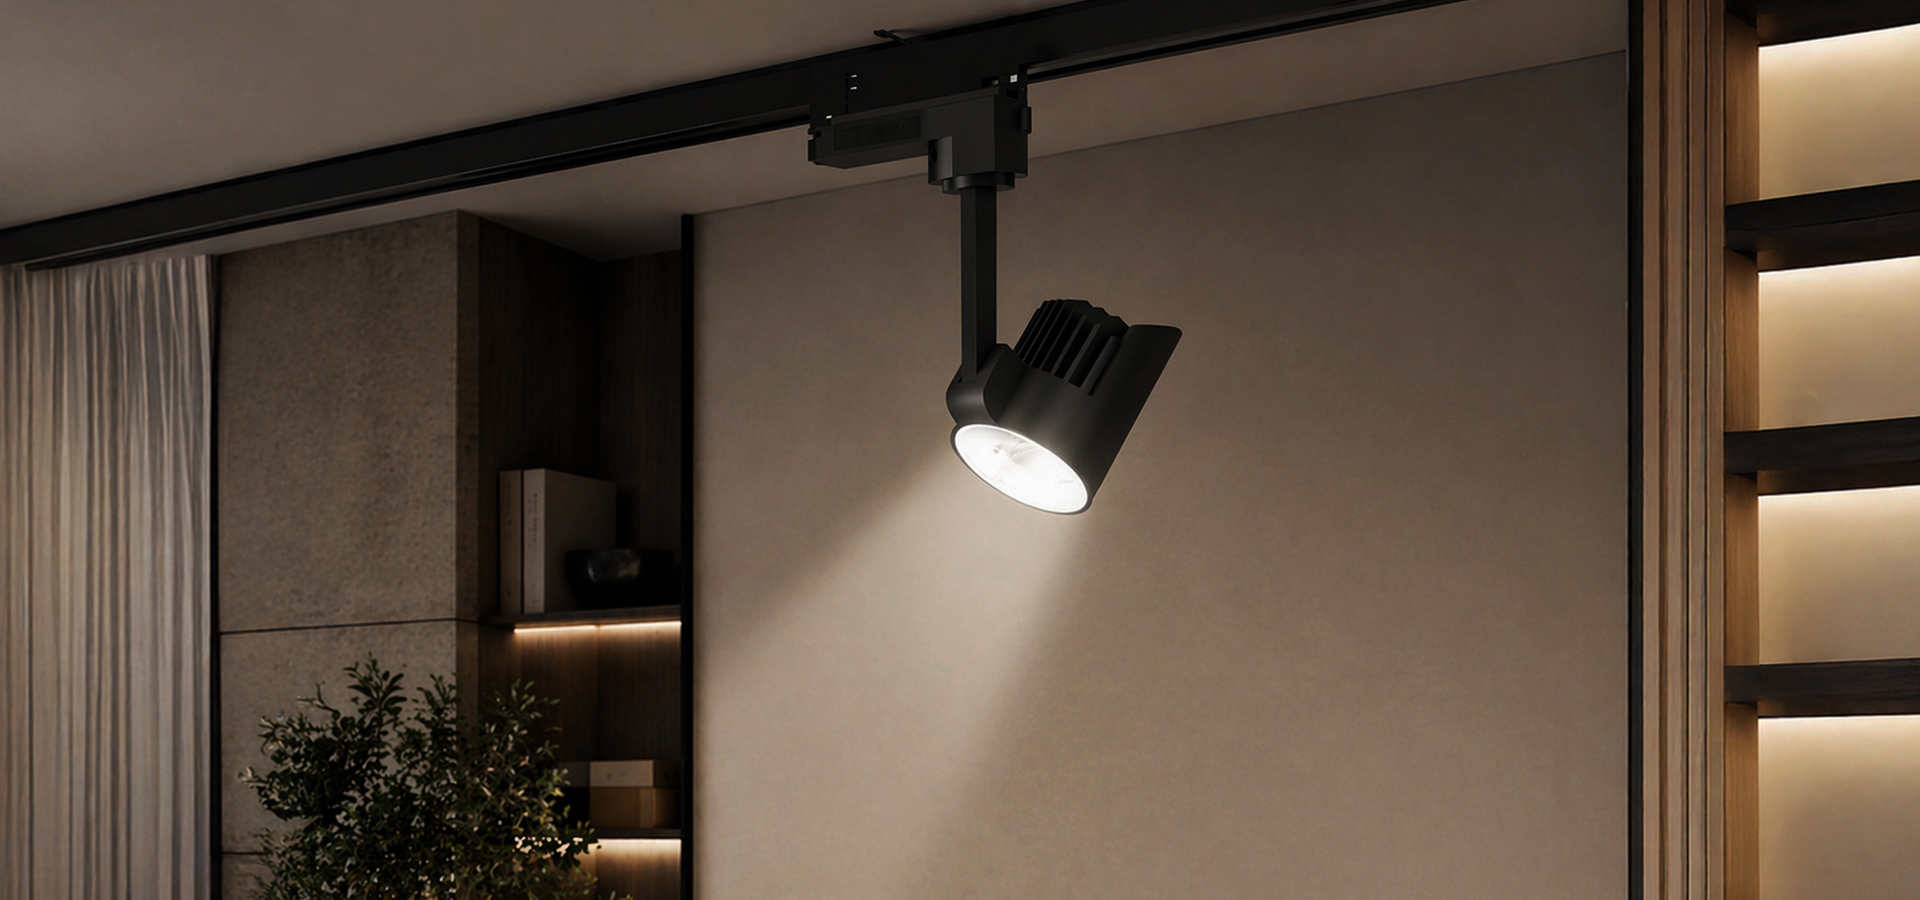
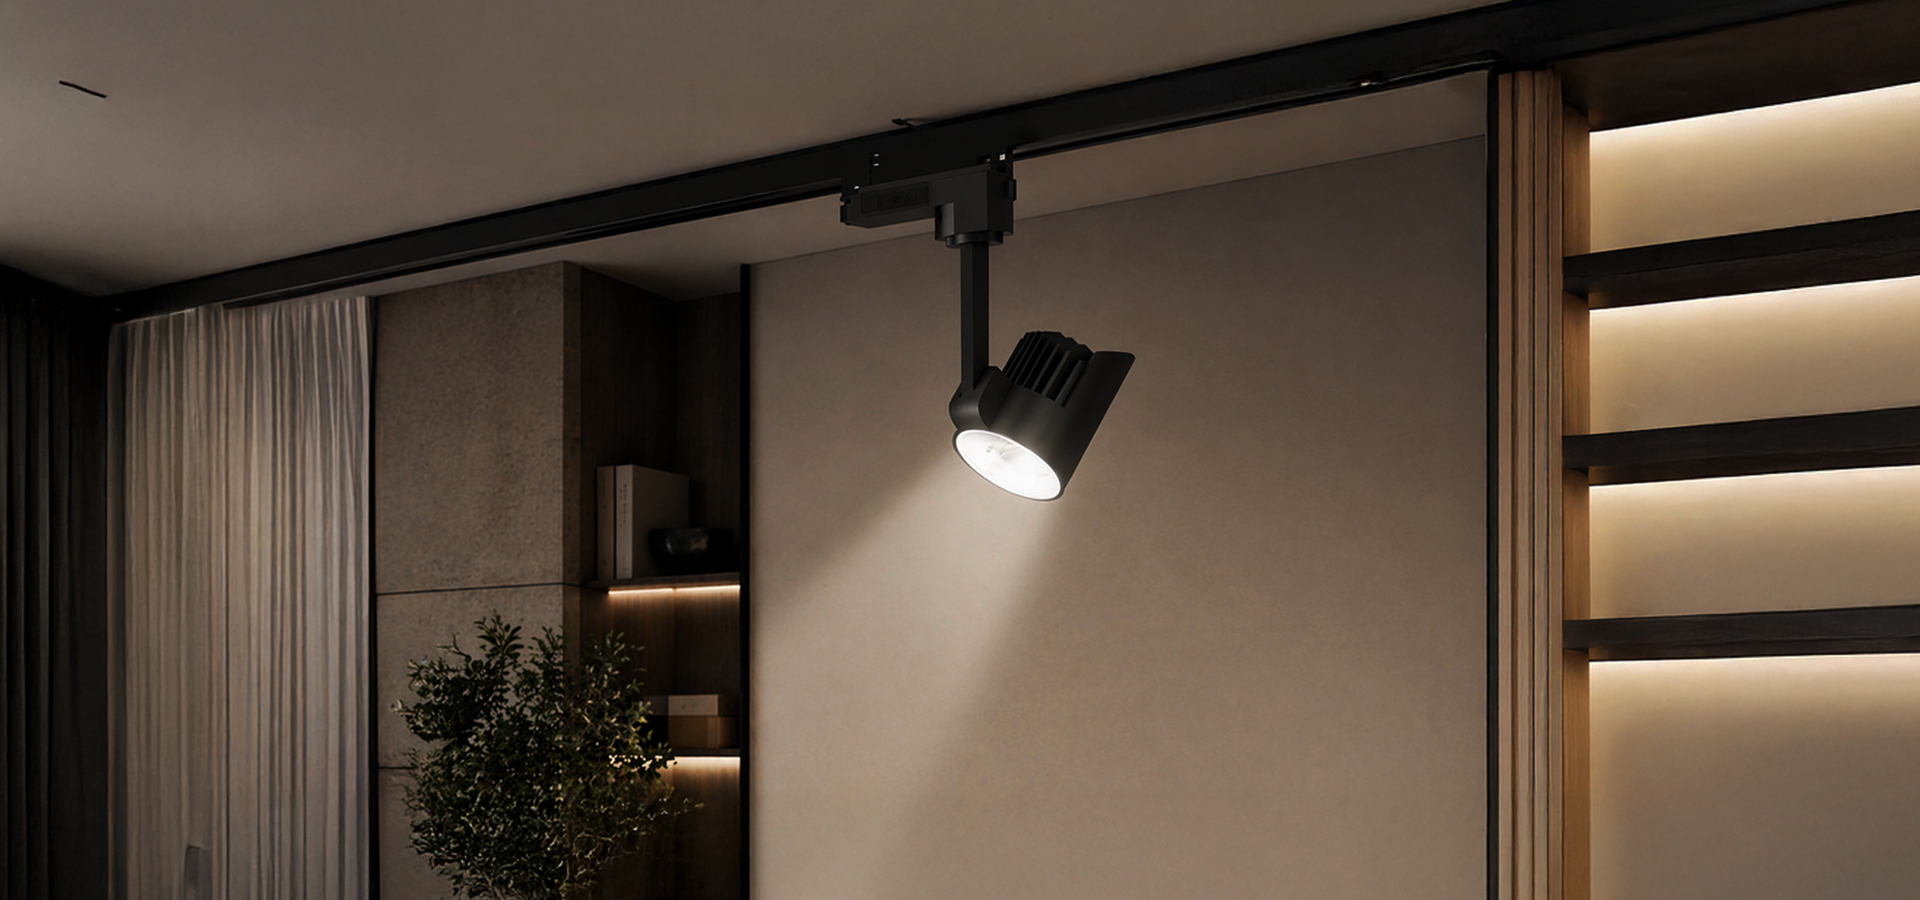
added product category

diff --git a/app/(marketing)/product/[collection]/page.tsx b/app/(marketing)/product/[collection]/page.tsx
@@ -88,27 +88,182 @@ const heroData = COLLECTION_HERO_DATA[collection as keyof typeof COLLECTION_HERO
         heroBannerImage={heroData?.image}
       />
 
-      <div className="">
+      <div className="mx-auto px-6 lg:px-12 pt-12">
 
-        <ProductFilters
+        {/* <ProductFilters
           filters={filters}
           setFilters={setFilters}
           products={products}
           collection={collection}
-        />
+        /> */}
+          <p className="text-white font-bold text-4xl capitalize"><span className="text-logo font-bold text-4xl uppercase">{collection}</span> Collection</p>
 
       </div>
 
       <div className="relative mx-auto px-6 lg:px-12 py-12">
 
-        <ProductGrid
+        {/* <ProductGrid
           filters={filters}
           products={products}
           collection={collection}
-        />
+        /> */}
+
+<CollectionGrid collection={collection} />
 
       </div>
 
+
+
     </main>
   )
+}
+
+function CollectionGrid({ collection }: { collection: string }) {
+
+  const data = {
+    "artizan":{
+    "1":"MICRO SPOT",
+    "2":"EYEBALL / ANTI GLARE & ANTI GLARE TILTABLE SERIES",
+    "3":"LINEAR LIGHT SERIES",
+    "4":"LINEAR SERIES (TRIMLESS)",
+    "5":"LINEAR PIN HOLE SERIES",
+    "6":"ANTI GLARE TILTABLE DOWNWARD SERVICEABLE",
+    "7":"RECESS LOW GLARE FIXED SERIES",
+    "8":"LINEAR WALLWASHER SERIES",
+    "9":"MICRO SPOT LIGHT SERIES",
+    "10":"MICRO SPOT LIGHT SERIES LOW VOLTAGE (12V)",
+    "11":"10MM MAGNETIC SERIES",
+    "12":"MAGNETIC LINEAR SERIES",
+    "13":"MAGNETIC SPOT / WALL WASHER / PENDANT SERIES",
+    "14":"CIRCULAR MAGNETIC POWER TRACK SERIES",
+    "15":"5MM 24V MINI MAGNETIC TRACK IN SURFACE AND CONCEALED LIGHT",
+    "16":"3-IN-1 VALUE MAGNETIC TRACK SERIES",
+    "17":"SOFT TRACK LIGHTING SYSTEM",
+    "18":"GOLD MAGNETIC TRACK LIGHT SYSTEM",
+    "19":"DISPLAY LIGHTS",
+    "20":"LENS FLEXIBLE STRIP LIGHT"
+},
+"astara":{
+    "1":"PROFILE WITH STRIP LIGHT",
+    "2":"PREMIUM SERIES COB",
+    "3":"RECSSED DIFFUSED DOWNLIGHTS (SMD)",
+    "4":"RECESSED DIFFUSED DOWNLIGHTS (SMD)",
+    "5":"RECESSED COB FIXTURES",
+    "6":"RECESSED COB FIXTURES – 3W",
+    "7":"RECESSED IP44/IP54/IP65 FIXTURES (COB)",
+    "8":"RECESSED COB FIXTURES",
+    "9":"RECSSED MATRIX FIXTURE",	
+    "10":"TRACK FIXTURES",			
+    "11":"TRACK FIXTURES", 
+    "12":"SURFACE DIFFUSED FIXTURES (SMD)",
+    "13":"RETAIL LIGHTING", 
+    "14":"SURFACE COB FIXTURES",
+    "15":"FLOOD LIGHT",
+    "16":"SURFACE DIFFUSED FIXTURES (SMD)",
+    "17":"STREET LIGHT",
+    "18":"IP54 SURFACE FIXTURES – COB",
+    "19":"SURFACE COB FIXTURE"
+},
+
+"indoor":{
+    "1":"Led Cob Concealed Down Light Fixtures Special Series",
+    "2":"Led Ip54,Ip65 Concealed Down Light Fixture",
+    "3":"Led Smd Concealed Down Light Fixtures, Panels",
+    "4":"Led Smd Concealed Down Light Fixtures, Special Series",
+    "5":"Premium Series",
+    "6":"Project And Retail Lights",
+    "7":"Slim Magnetic Track,Fixtures,Accessories",
+    "8":"Motion Sensors",
+    "9":"Led Modules + Modular Down Lighters",
+    "10":"Mr16 Module Down Lighters",
+    "11":"Led Cob Surface Fixture",
+    "12":"Led Smd Slim Surface Panel",
+    "13":"Led Surface Panel",
+    "14":"Led Indoor Wall Light",
+    "15":"Led Gu10 And Mr16 Lamps",
+    "16":"Led Lamps Filament",
+    "17":"Led Linear Mirror Lights",
+    "18":"Led Linear Mirror Lights - Tiltable",
+    "19":"Led Linear Tube Lights",
+    "20":"Led Linear Tube Lights High Wattages",
+    "21":"24V Neon Strip Light - Ip 67",
+    "22":"220V-Led Strip Lights-Ip 67",
+    "23":"Led Strip Lights-12V(New Improved)",
+    "24":"Led Strip Lights-24V",
+    "25":"Led Strip Light Plus Series",
+    "26":"Aluminium Empty Profiles",
+    "27":"Led Strip Light Driver",
+    "28":"Led Lum Luxe",
+    "29":"Top Loading Flexible Track - Suspended,48V Up,Down Lighter",
+    "30":"Flexible Track Accessories Top Loading 48V",
+    "31":"Vision Series (Wireless Automation Drivers And Accessories)",
+    "32":"LED COB CONCEALED DOWN LIGHT FIXTURES",
+    "33":"Led Strip Light Driver",
+    "34":"Led Lum Luxe",
+    "35":"Top Loading Flexible Track - Suspended,48V Up,Down Lighter",
+    "36":"Flexible Track Accessories Top Loading 48V",
+    "37":"Vision Series (Wireless Automation Drivers And Accessories)",
+    "38":"LED COB CONCEALED DOWN LIGHT FIXTURES"
+},
+
+"outdoor":{
+    "1":"High Power Led Outdoor Wall Light Fixtures",
+    "2":"Led Outdoor Surface Light Fixtures",
+    "3":"Led Outdoor 220V Ac Wall Light Fixtures",
+    "4":"Led Underground Light Fixtures",
+    "5":"Led Outdoor White/Black Body Wall Light Fixtures (Pattern)",
+    "6":"Led Outdoor Concealed Surface Step Light Fixtures",
+    "7":"Led Garden Light Fixtures With Spike",
+"8":"Led Outdoor Wall Lights",
+"9":"Llo-24V Outdoor Series",
+"10":"Led Outdoor Wall Lights Wooden Series",
+"11":"Led Outdoor Wooden Series - Bollards",
+"12":"E-27 Bollards",
+"13":"Led Bollards",
+"14":"Outdoor Underwater Lights - 24V",
+"15":"Outdoor Wall Lights - Gu10 | E27",
+"16":"Led Outdoor Stick Series Effect Lighting - Spikes - 24V",
+"17":"Outdoor Linear Washers - Ip68",
+"18":"Hand Rail Lights",
+"19":"Pole Light Fixtures",
+"20":"Led Foot Light Outdoor-Indoor",
+"21":"Ledlum Linear Surface / Underground Lights",
+"22":"Led Outdoor Lights - Economy Series",
+"23":"LED GARDEN LIGHT FIXTURES WITH SPIKE / BASE - IP68 CONNECTOR FREE"
+},
+
+"volaris":{
+    "1":"Ceiling Fans [DOWNROD]",
+    "2":"Ceiling Fans [HUGGER]",
+    "3":"Decorative Fan",
+    "4":"Tower Fan",
+    "5":"Bladeless Fans",
+    "6":"Pedestials",
+    "7":"Tripods",
+    "8":"Wall Fans",
+    "9":"Table Fans",
+    "10":"Floor Fans",
+    "11":"Exhaust Fans"
+    
+},
+"klewe":{
+    
+}}
+
+  const items = data[collection as keyof typeof data] ? Object.values(data[collection as keyof typeof data]) : [];
+
+  console.log("products", collection);
+
+  return (
+    <div className="grid text-white grid-cols-1 sm:grid-cols-2 md:grid-cols-4 gap-4">
+      {items.map((text, index) => (
+        <div
+          key={index}
+          className="p-4 border border-white/20 rounded-lg shadow-sm hover:shadow-md transition"
+        >
+          <p className="text-sm font-medium">{text}</p>
+        </div>
+      ))}
+    </div>
+  );
 }

diff --git a/components/sections/product/Hero.tsx b/components/sections/product/Hero.tsx
@@ -3,14 +3,14 @@ import heroImage from '@/public/images/home/home-hero.png'; // Make sure this pa
 
 export default function Hero({ heroBannerImage }: { heroBannerImage: string }) {
   return (
-    <section className="relative w-full h-[50vh] sm:h-[60vh] lg:h-[70vh] min-h-[400px] max-h-[800px] flex items-center justify-center bg-transparent overflow-hidden">
+    <section className="relative w-full h-[50vh] sm:h-[60vh] lg:h-[80vh] min-h-[400px] max-h-[900px] flex items-center justify-center overflow-hidden">
       <Image
         src={heroBannerImage || heroImage}
         alt="Collection Hero"
         fill
         priority
         sizes="100vw"
-        className="object-cover object-center z-0 transition-transform duration-1000 hover:scale-105 will-change-transform" 
+        className="object-cover object-top z-0 transition-transform duration-1000 hover:scale-105 will-change-transform" 
         style={{ transform: 'translate3d(0, 0, 0)', backfaceVisibility: 'hidden' }}
       />
     </section>

diff --git a/app/globals.css b/app/globals.css
@@ -130,6 +130,7 @@ img {
   --color-card: var(--cardbackground);
   --color-logo: var(--logo);
   --color-content: var(--content);
+  --color-text: var(--logo);
 
   --font-bai: var(--primary-font);
   --font-pop: var(--secondary-font);
